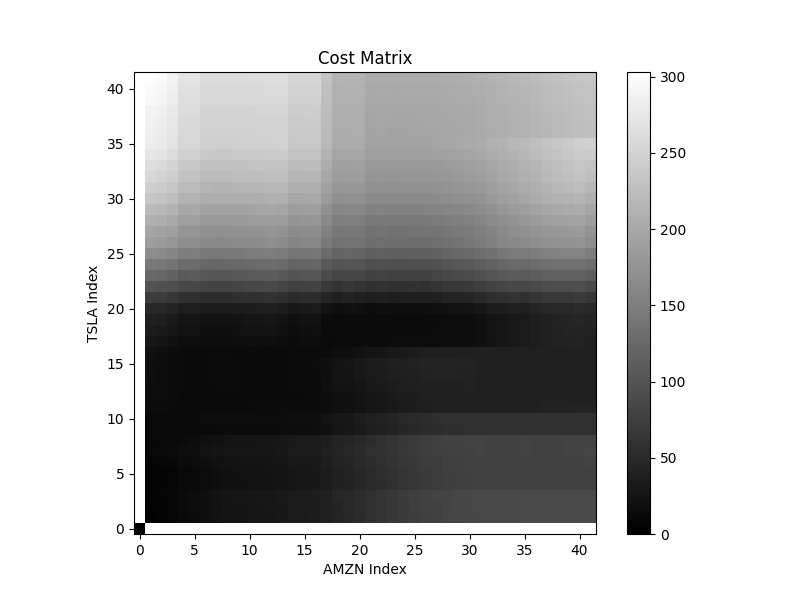
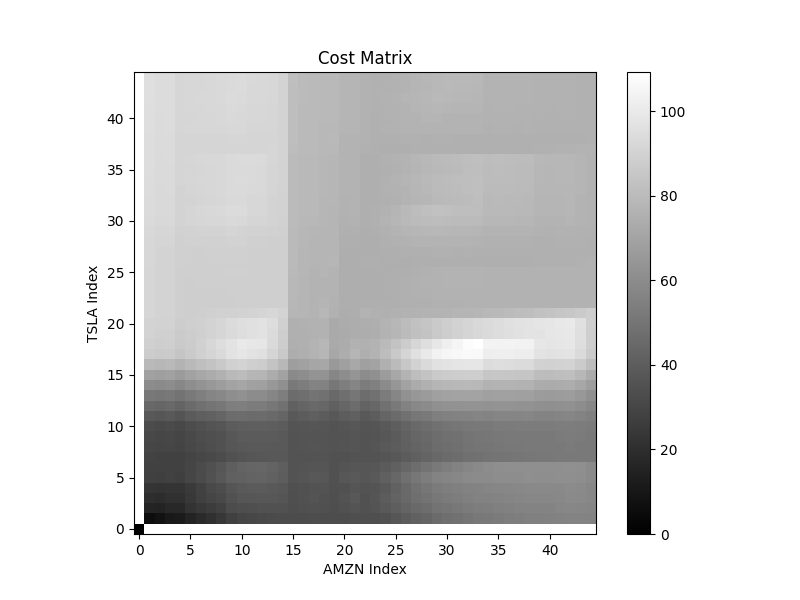
module 4 CSC506

diff --git a/CSC506/module4/dtw_v1/dtw_7.py b/CSC506/module4/dtw_v1/dtw_7.py
@@ -22,11 +22,11 @@ ticker_1_symbol = "TSLA"
 ticker_2_symbol = "AMZN"
 
 # Define custom start and end dates
-start_date_1 = "2024-06-01"  # Start date for the first ticker
-end_date_1 = "2024-08-01"    # End date for the first ticker
+start_date_1 = "2024-04-01"  # Start date for the first ticker
+end_date_1 = "2024-06-01"    # End date for the first ticker
 
-start_date_2 = "2024-06-01"  # Start date for the second ticker
-end_date_2 = "2024-08-01"    # End date for the second ticker
+start_date_2 = "2024-04-01"  # Start date for the second ticker
+end_date_2 = "2024-06-01"    # End date for the second ticker
 
 # Fetching historical stock price data using the defined date range
 ticker_1 = yf.Ticker(ticker_1_symbol)
@@ -61,7 +61,7 @@ print(f"Series 2 length: {len(series_2)}, first few values: {series_2[:5]}")
 distance = dtw.distance(series_1, series_2)
 print(f"DTW distance between {ticker_1_symbol} and {ticker_2_symbol}: {distance}")
 
-# Calculate cost matrix and warping paths without specifying 'use_c'
+# Calculate cost matrix and warping paths
 accumulated_cost, cost_matrix = dtw.warping_paths(series_1, series_2)
 
 # Debugging: print types and values to verify output
